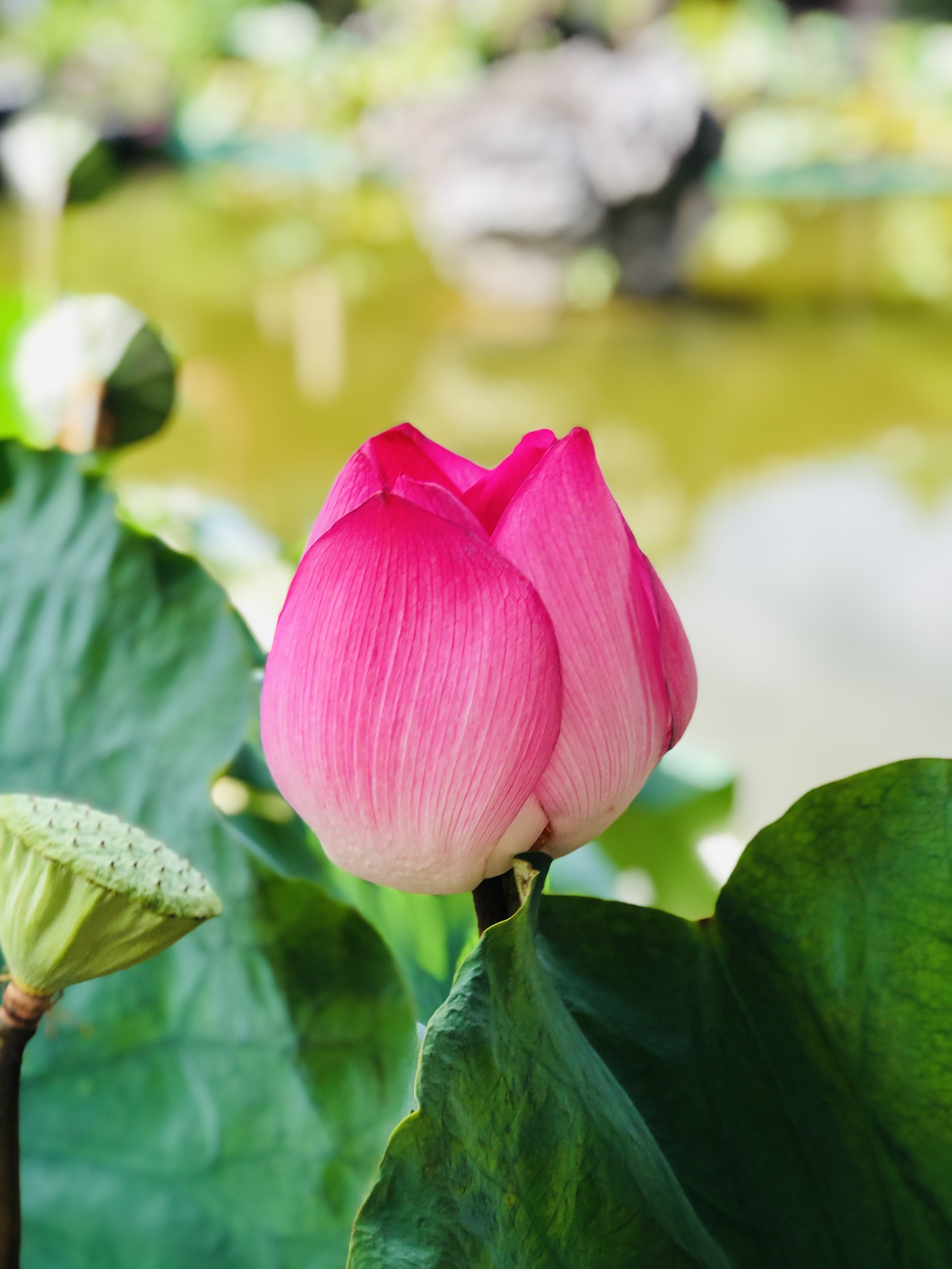
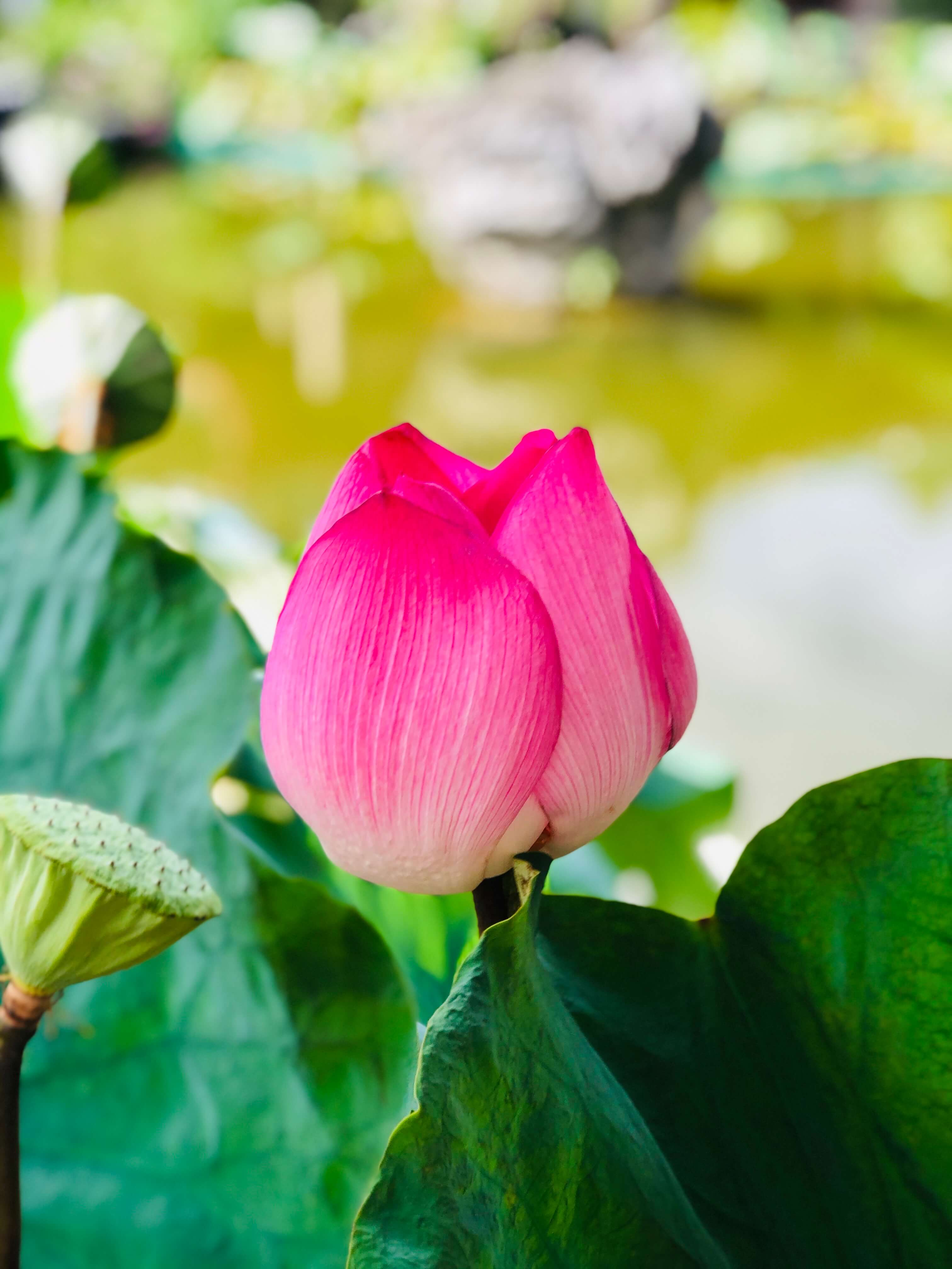
photos compression & german texts update

diff --git a/deutsch.html b/deutsch.html
@@ -64,20 +64,20 @@
     <!-- About Me -->
     <div class="about-me" id="about-me">
       <div class="about-me-p row col-xs-12 col-sm-12 col-md-12 col-lg-12">
-        <p>Hallo, mein Name ist <i><strong>Jasmine Zeng</strong></i>. Ich bin in Festlandchina geboren und aufgewachsen. Jetzt studiere ich Marketing an der Polytechnische Universität Hongkong. Außerdem bin ich eine Webentwicklerin und Sprachliebhaberin. Selbstverbesserung und persönliche Entwicklung sind zwei Sachen, die für mich bedeutungsvoll sind. Aus diesem Grund bemühe ich mich ständig, neue Fähigkeiten und Kenntnisse zu erlernen und beherrschen.</p>
+        <p>Hallo, mein Name ist <i><strong>Jasmine Zeng</strong></i>. Ich bin in Festlandchina geboren und aufgewachsen. Neben meinem Bachelorstudium im Marketing an der Polytechnische Universität Hongkong, bin ich eine Webentwicklerin und Sprachliebhaberin. Als eine Person, die Selbstverbesserung und persönliche Entwicklung in grossem Masse wertschätzt, sterbe ich andauernd an neue Fähigkeiten zu erlernen, zu beherrschen und mein Wissen auszubauen.</p>
 
-        <p>Neben dem Studium lerne ich Programmiersprachen wie HTML, CSS und JavaScript. Ursprünglich wollte ich nur eine Wandernwebseite erstellen, die ich meine Wandererfahrungen und Fotos anzeigen konnte. Jedoch habe ich schnell gemerkt, dass mir die Webentwicklung wirklich viel Spaß macht und ich immer mehr darüber lernen möchte. Im Moment arbeite ich noch am Frontend, aber ich plane ein, am Ende des 2022 ins Backend einzusteigen.</p>
+        <p>Meine Interesssen weiten sich über die wissenschaftlichen Studien aus zu Programmiersprachen wie HTML, CSS und JavaScript. Mein erster Abstecher in die Webentwicklung war im späten 2021. Ursprünglich wollte ich nur eine Webseite erstellen, auf der ich meine Wandererfahrungen und Fotos anzeigen kann. Jedoch habe ich schnell gemerkt, dass mir die Webentwicklung wirklich viel Spaß macht und ich gerne mehr darüber lernen möchte. Im Moment arbeite ich noch am Frontend, plane aber am Ende des 2022 ins Backend einzusteigen.</p>
         
-        <p>Weiterhin bin ich eine begeistere Sprachanhängerin. Eine Sprache funktioniert wie eine Brücke, die es mir ermöglicht, mich mit Menschen und ihren Kulturen auf einer tieferen Ebene zu verbinden, deshalb finde ich es sehr faszinierend. Derzeit lerne ich Deutsch und Französisch, nachdem ich Englisch und Kantonesisch fließend gelernt habe.</p>
+        <p>Darüber hinaus bin ich eine begeistere Sprachanhängerin. Eine Sprache agiert, wie eine Brücke, die es mir ermöglicht, mich mit Personen und deren Kulturen auf eineren tieferen Level zu verbinden. Aus diesem Grund finde ich es übermässig faszinierend. Momentan lerne ich aktiv Deutsch und Französisch, nachdem ich schon fließend Englisch und Kantonesisch spreche.</p>
 
-        <p>Neben der erwähnenden Aktivitäten mache ich gerne Wanderung, besuche Geschichts- und Kunstmuseen und entdecke Stadtteile für ihr Essen und ihre Kulturen.</p>
+        <p>Neben den oben aufgelisteten Aktivitäten liebe ich es ausserdem zu Wandern, Geschichts- und Kunstmuseen zu besuchen und lokale Nachbarschaften zu erkunden und ihre Gerichte und Kulturen kennenzulernen.</p>
       </div>
     </div>
     
     <!-- Gallery -->
     <div class="gallery" id="gallery">
-      <h2>Gallerie</h2>
-      <p>Ich mache gerne Fotos, um mein Leben in Hongkong festzuhalten. Unten sind einige meiner Lieblinge.</p><br>
+      <h2>Galerie</h2>
+      <p>Ich mache gerne Fotos, um mein Leben in Hongkong festzuhalten. Unten sind einige meiner Favoriten dargestellt.</p><br>
 
       <!-- Grid View buttons -->
       <div class="galleryBtns">

diff --git a/style.css b/style.css
@@ -47,7 +47,6 @@ p, address {
   padding: 3rem 13rem 0rem;
   margin: 0;
 }
-
 /* ========== Navbar ========== */
 #navbar-upperleft {
   color:antiquewhite;
@@ -65,7 +64,6 @@ p, address {
   display: block;
   right: 0;
 }
-
 /* ========== Jumbotron ========== */
 .hero-image {
   background-image: url('./images/sunsetPeak1.jpg');
@@ -107,7 +105,7 @@ p, address {
 .about-me-p {
   padding: 13vw 13vw 16vw;
 }
-
+/* ========== Gallery ========== */
 .gallery {
   background-image: url('./images/suicideCliff2.jpg');
   padding: 13vw 13vw 16vw;
@@ -166,8 +164,7 @@ p, address {
   margin-top: 7px;
   /* vertical-align: middle; */
 }
-
-/* Contact */
+/* ========== Contact ========== */
 .fab {
   font-size:4.5vw;
   color:#2867B2;
@@ -182,7 +179,7 @@ p, address {
 footer {
   color: beige;
 }
-
+/* ========== Responsive Web ========== */
 /* If the screen size is 650px wide or less, set the ... of ... to... */
 @media screen and (max-width: 650px) {
   .hero-image {
